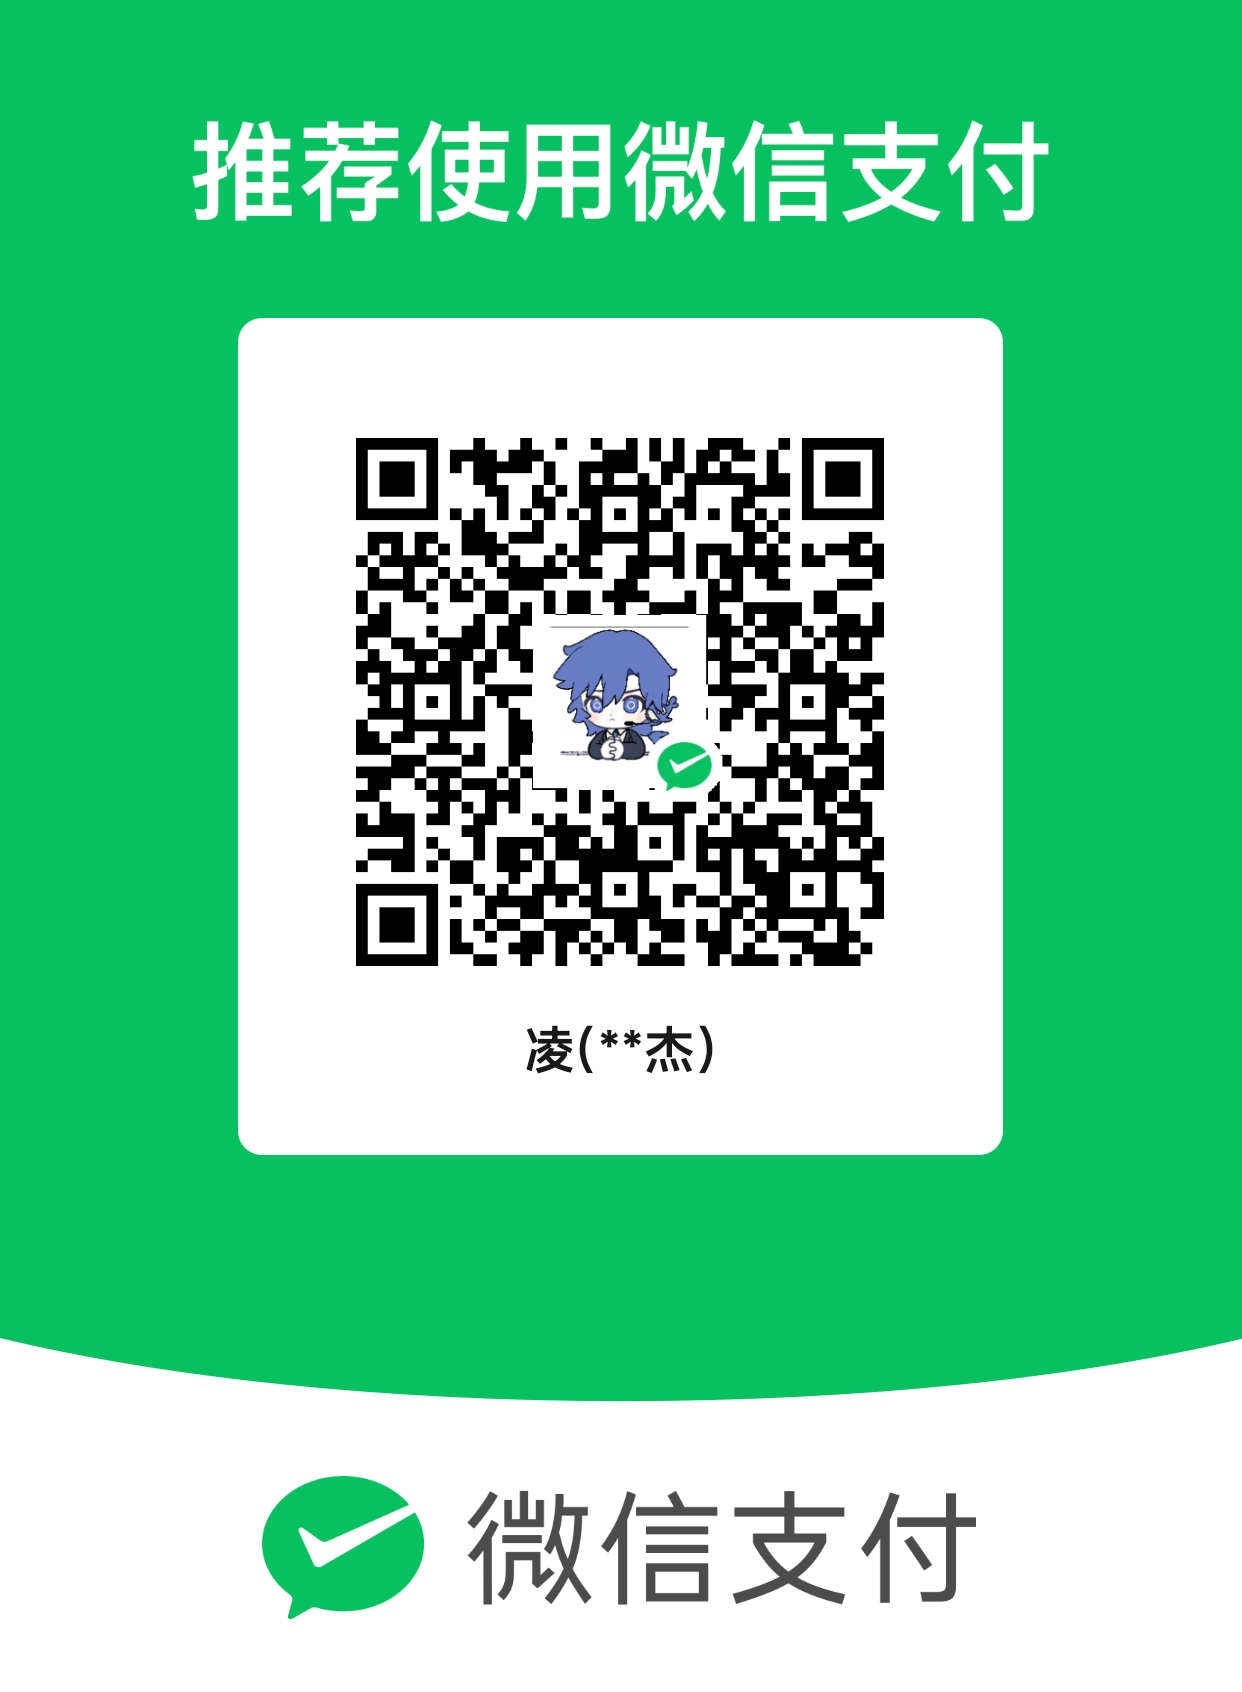
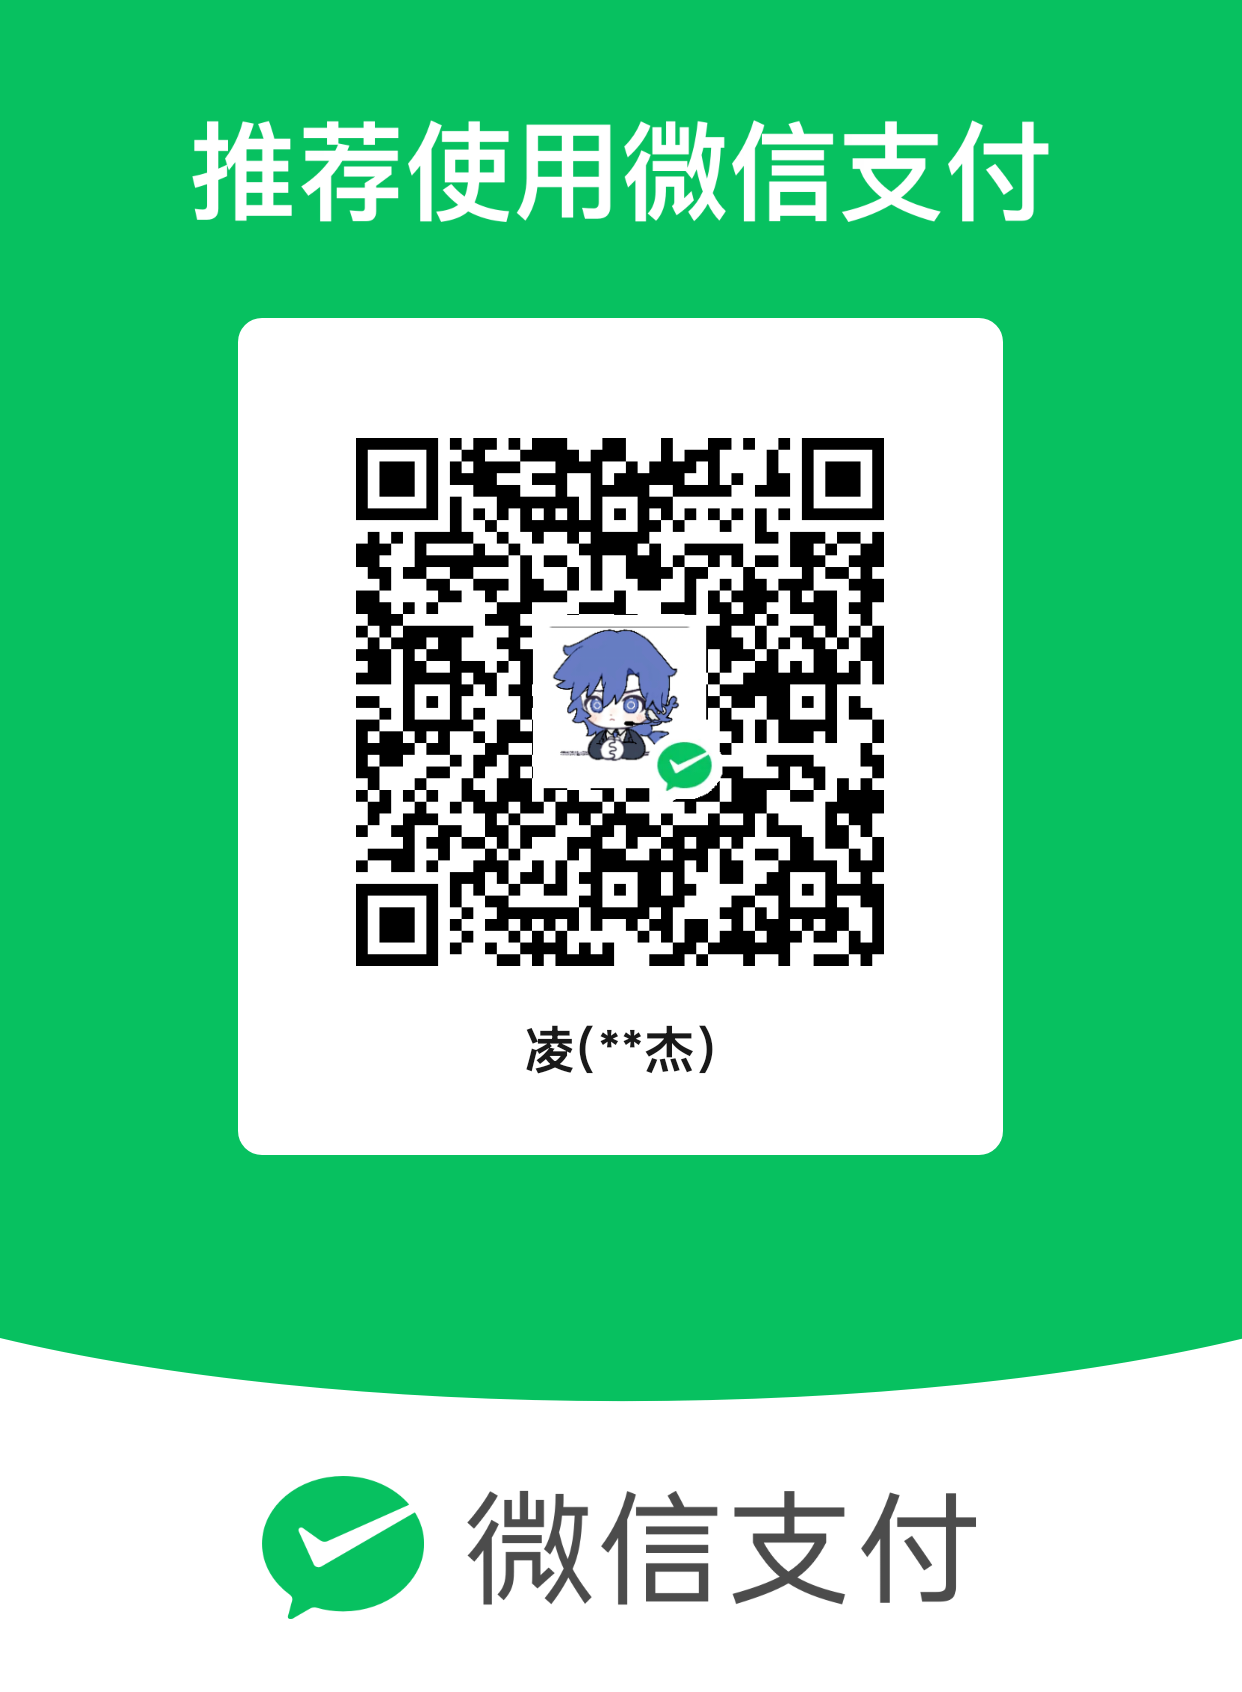
fix(engine): 修复四个用户反馈问题
1. 章节同时有视频和文档时误判为文档，视频被跳过
   根因：waitForVideo 用 s.d > 0 判定有无视频，而 d 是 video.duration，
   元数据加载完成前为 0。混合章节页面较重、加载慢，2秒等待不够，
   于是误判为「无视频」而走文档分支。
   修复：先用 getBoundingClientRect 过滤出「可见且有尺寸」的<video>
   （排除页脚装饰与预加载），再最多等 8s 等元数据就绪；
   duration 未到但播放头已推进也判定为视频。
   同时用播放头做兜底，避免慢网下误判。

2. 右侧学习通界面显示不完全
   根因：panel = Math.max(420, w * 0.46) 优先保障左侧面板，
   窗口 1440px 时右侧只剩 778px，低于学习通页面可用宽度。
   修复：改为先按 54% 给右侧，并保证不低于 820px；
   左侧面板上限 620px，宽屏下空间给右侧。
   默认窗口 1440x900，最小 1240x700（= 左 420 + 右 820）。

3. 设置页清空登录数据后仍显示老账号
   根因：credentials:clear 只删了凭据文件，内嵌浏览器的会话 Cookie
   仍在，超星会直接沿用旧身份。这与 1.5.1 修的换账号是同一处
   遗漏——当时只给 credentials:set 补了清理，漏了 clear。
   修复：clear 时同步调用 session.clearAuthCookies()。

4. 收款码失效
   替换为新的微信收款码（桌面最新那张），尺寸一致 1242x1692。

另附：
- tools/make-voice-bg.py：生成口播背景图（去白底+居中构图），
  参数化设计，后续换素材只改参数。默认用边缘泛洪算法，
  只抠与四边连通的白色，图内部的蕾丝与高光不受影响。
- promo/assets/：素材与去底结果
- .gitignore 补充 __pycache__

验证：typecheck 通过；test-timeout / test-account-switch /
test-channel / test-fallback 四项回归全过；构建后确认新收款码
已进产物（MD5 一致）。

Changed region(s): [[0.2754, 0.2459, 0.7343, 0.5839]]

diff --git a/src/main/engine/video.ts b/src/main/engine/video.ts
@@ -4,6 +4,9 @@ import type { EngineHooks } from './hooks';
 
 export type VideoResult = 'completed' | 'no_video' | 'stuck' | 'unexpected';
 
+/** 等待视频元数据（duration）就绪的上限 */
+const VIDEO_META_TIMEOUT_MS = 8000;
+
 function rethrowIfStopped(h: EngineHooks, e: unknown) {
   if (h.ctl.isStopped) throw e;
 }
@@ -40,34 +43,94 @@ export async function waitForVideo(page: Page, h: EngineHooks): Promise<boolean>
   const want = Math.min(2, Math.max(1, h.speed() || 1));
   await setVideoRate(page, want);
   await installPauseSpy(page);
+
+  // 混合章节（同时有视频与文档）页面较重，video 元素常先出现、
+  // 元数据（duration）后加载。旧逻辑只看一次 s.d>0，
+  // 元数据没到就判定「无视频」→ 走文档分支 → 视频被跳过。
+  // 因此先确认 video 元素存在，再等 duration 就绪。
+  const hasElement = await hasVideoElement(page);
+  if (!hasElement) return false;
+
+  const deadline = Date.now() + VIDEO_META_TIMEOUT_MS;
+  let last: Awaited<ReturnType<typeof probeVideo>> = null;
+
+  while (!h.ctl.isStopped) {
+    last = await probeVideo(page, h);
+    if (last && last.d > 0) {
+      const actual = last.rate || 1;
+      if (last.paused) {
+        const woke = await wakeUp(page, page.frames()[0]);
+        if (woke) last = woke;
+      }
+      const eta = want > 1 ? `，约 ${Math.round(last.d / actual / 60)} 分钟看完` : '';
+      if (want > 1 && actual < want - 0.01) {
+        h.log('warn', `⚠ 平台把倍速限制在 ${actual}x（目标 ${want}x）`);
+      } else {
+        h.log('ok', `✓ 视频: ${Math.round(last.d)}s（${actual}x${eta}）`);
+      }
+      return true;
+    }
+    // duration 还没出来，但播放头已经在动，说明确实是视频，只是元数据慢
+    if (last && last.ct > 0) {
+      h.log('ok', `✓ 视频: 正在播放（${last.ct.toFixed(1)}s，${last.rate || 1}x）`);
+      return true;
+    }
+    if (Date.now() > deadline) break;
+    await h.ctl.sleep(800);
+  }
+
+  h.log('warn', '    ⚠ 检测到 video 元素但始终未就绪，按文档处理');
+  return false;
+}
+
+/** 任一 frame 里是否存在「可见且有尺寸」的 <video> */
+async function hasVideoElement(page: Page): Promise<boolean> {
   for (const frame of page.frames()) {
     try {
-      const v = await frame.$('video');
-      if (!v) continue;
-      let s = await forcePlay(frame);
-      if (!s) continue;
-      if (s.paused) s = (await wakeUp(page, frame)) || s;
-      await h.ctl.sleep(2000);
-      s = (await forcePlay(frame)) || s;
-      if ((s.paused || s.ct < 2) && !h.ctl.isStopped) {
-        const d = await h.diag('start');
-        if (d) h.log('info', `[diag] ${d}`);
-      }
-      if (s.d > 0) {
-        const actual = s.rate || 1;
-        const eta = want > 1 ? `，约 ${Math.round(s.d / actual / 60)} 分钟看完` : '';
-        if (want > 1 && actual < want - 0.01) {
-          h.log('warn', `⚠ 平台把倍速限制在 ${actual}x（目标 ${want}x）`);
-        } else {
-          h.log('ok', `✓ 视频: ${Math.round(s.d)}s（${actual}x${eta}）`);
+      const ok = await frame.evaluate(() => {
+        for (const v of Array.from(document.querySelectorAll('video'))) {
+          const r = (v as HTMLVideoElement).getBoundingClientRect();
+          // 隐藏的、零尺寸的 <video> 常见于页脚装饰/预加载，不算正片
+          if (r.width >= 100 && r.height >= 60) return true;
         }
-        return true;
+        return false;
+      });
+      if (ok) return true;
+    } catch {
+      /* frame 可能正在导航，跳过 */
+    }
+  }
+  return false;
+}
+
+/** 取第一个可见视频的播放状态 */
+async function probeVideo(page: Page, h: EngineHooks) {
+  for (const frame of page.frames()) {
+    try {
+      const s = await frame.evaluate(() => {
+        for (const el of Array.from(document.querySelectorAll('video'))) {
+          const v = el as HTMLVideoElement;
+          const r = v.getBoundingClientRect();
+          if (r.width < 100 || r.height < 60) continue;
+          return {
+            ct: v.currentTime,
+            d: v.duration || 0,
+            paused: v.paused,
+            ended: v.ended,
+            rate: v.playbackRate,
+          };
+        }
+        return null;
+      });
+      if (s) {
+        // 找到可见视频就驱动它播放并应用倍速
+        return await forcePlay(frame);
       }
     } catch (e) {
       rethrowIfStopped(h, e);
     }
   }
-  return false;
+  return null;
 }
 
 /** 轮询直到视频结束 / 卡住 / 异常（3s 一次，45s 无进度判定卡住） */

diff --git a/src/main/index.ts b/src/main/index.ts
@@ -22,10 +22,24 @@ let win: BrowserWindow | null = null;
 let session: Session | null = null;
 let store: Store | null = null;
 
+/** 学习通页面可用宽度下限：低于此值播放器与目录会挤在一起显示不全 */
+const MIN_VIEW_WIDTH = 820;
+/** 左侧面板宽度上限，避免宽屏下日志/设置区空得太多 */
+const MAX_PANEL_WIDTH = 620;
+
 function layout() {
   if (!win || !session) return;
   const [w, h] = win.getContentSize();
-  const panel = Math.max(420, Math.floor(w * 0.46));
+  // 先按比例给右侧，再确保它不低于 MIN_VIEW_WIDTH。
+  // 旧算法用 Math.max(420, w*0.46) 优先保障左侧面板，
+  // 窗口收到最小宽度时右侧只剩约 560px，学习通页面必然显示不全。
+  let view = Math.floor(w * 0.54);
+  if (view < MIN_VIEW_WIDTH) view = Math.min(MIN_VIEW_WIDTH, w);
+  let panel = w - view;
+  if (panel > MAX_PANEL_WIDTH) {
+    panel = MAX_PANEL_WIDTH;
+    view = w - panel;
+  }
   session.setBounds({ x: panel, y: 0, width: Math.max(0, w - panel), height: h });
 }
 
@@ -33,10 +47,11 @@ async function createWindow() {
   store = new Store();
 
   win = new BrowserWindow({
-    width: 1360,
-    height: 880,
-    minWidth: 1040,
-    minHeight: 640,
+    width: 1440,
+    height: 900,
+    // 最小宽度 = 左侧面板下限 420 + 右侧学习通下限 820
+    minWidth: 1240,
+    minHeight: 700,
     backgroundColor: '#0b1220',
     autoHideMenuBar: true,
     show: false,

diff --git a/src/main/ipc.ts b/src/main/ipc.ts
@@ -128,8 +128,15 @@ export function registerIpc(store: Store, session: Session, getWindow: () => Bro
     }
     return true;
   });
-  ipcMain.handle('credentials:clear', () => {
+  ipcMain.handle('credentials:clear', async () => {
     store.clearCredentials();
+    // 关键：只删凭据文件不够。内嵌浏览器里旧账号的会话 Cookie 仍在，
+    // 下次登录时超星会直接沿用旧身份——用户看到的就是「清空了却还是老账号」。
+    try {
+      await session.clearAuthCookies();
+    } catch (e) {
+      console.warn('[ipc] 清空凭据时清除 Cookie 失败:', e);
+    }
     return true;
   });
 

diff --git a/tools/make-voice-bg.py b/tools/make-voice-bg.py
@@ -1,0 +1,176 @@
+#!/usr/bin/env python3
+"""
+生成口播背景图：纯色底 + 居中小图（自动去白底）。
+
+以后换素材只要改参数，不用改代码：
+
+    python tools/make-voice-bg.py --image "C:\\path\\to\\new.png"
+    python tools/make-voice-bg.py --image x.png --bg "#0d1117" --scale 45
+    python tools/make-voice-bg.py --image x.png --mode flood     # 边缘泛洪（默认）
+    python tools/make-voice-bg.py --image x.png --keep-white      # 不去白底
+
+去白底两种算法：
+  flood  —— 从四边向内扩散，遇到接近白色就抠掉。
+           只处理「与边缘连通」的白色，因此图内部的白色
+           （蕾丝、眼神光、领结）会完整保留。
+  luma   —— 按亮度一刀切。简单但会误伤图内浅色区域。
+"""
+import argparse
+import sys
+from collections import deque
+from pathlib import Path
+
+from PIL import Image, ImageFilter
+
+ROOT = Path(__file__).resolve().parent.parent
+ASSETS = ROOT / "promo" / "assets"
+
+
+def _is_bg_white(r, g, b, tol):
+    """像素是否算「背景白」：够亮，且三个通道接近（无彩色）"""
+    mn, mx = min(r, g, b), max(r, g, b)
+    return mn >= 255 - tol and (mx - mn) <= 12
+
+
+def remove_white_flood(img: Image.Image, tol: int, feather: float) -> Image.Image:
+    """边缘泛洪去白底：只抠与四边连通的白色"""
+    img = img.convert("RGBA")
+    w, h = img.size
+    px = img.load()
+
+    # alpha=0 表示已判定为背景
+    seen = bytearray(w * h)
+    q = deque()
+
+    def push(x, y):
+        i = y * w + x
+        if not seen[i]:
+            seen[i] = 1
+            q.append((x, y))
+
+    for x in range(w):
+        push(x, 0)
+        push(x, h - 1)
+    for y in range(h):
+        push(0, y)
+        push(w - 1, y)
+
+    removed = 0
+    while q:
+        x, y = q.popleft()
+        r, g, b, _ = px[x, y]
+        if not _is_bg_white(r, g, b, tol):
+            continue  # 撞到非白色边界，停
+        i = y * w + x
+        if px[x, y][3] != 0:
+            removed += 1
+        px[x, y] = (r, g, b, 0)
+        if x > 0:     push(x - 1, y)
+        if x < w - 1: push(x + 1, y)
+        if y > 0:     push(x, y - 1)
+        if y < h - 1: push(x, y + 1)
+
+    # 靠近抠除区的实心像素做羽化，消除锯齿白边
+    if feather > 0 and removed:
+        alpha = img.getchannel("A")
+        alpha = alpha.filter(ImageFilter.GaussianBlur(feather))
+        img.putalpha(alpha)
+    return img
+
+
+def remove_white_luma(img: Image.Image, threshold: int, feather: float) -> Image.Image:
+    """按亮度一刀切（会误伤图内浅色区域）"""
+    img = img.convert("RGBA")
+    w, h = img.size
+    px = img.load()
+    for y in range(h):
+        for x in range(w):
+            r, g, b, _ = px[x, y]
+            d = ((255 - r) ** 2 + (255 - g) ** 2 + (255 - b) ** 2) ** 0.5
+            if d <= threshold:
+                px[x, y] = (r, g, b, 0)
+            elif d < threshold + 60:
+                px[x, y] = (r, g, b, int((d - threshold) / 60 * 255))
+    if feather > 0:
+        img.putalpha(img.getchannel("A").filter(ImageFilter.GaussianBlur(feather)))
+    return img
+
+
+def hex_to_rgb(s):
+    s = s.lstrip("#")
+    return tuple(int(s[i:i + 2], 16) for i in (0, 2, 4))
+
+
+def trim_transparent(img: Image.Image) -> Image.Image:
+    """裁掉四周全透明的区域，让缩放基于实际内容"""
+    bbox = img.getchannel("A").getbbox()
+    return img.crop(bbox) if bbox else img
+
+
+def build(args) -> None:
+    src = Path(args.image) if args.image else None
+    if src is None:
+        ASSETS.mkdir(parents=True, exist_ok=True)
+        cands = sorted(p for p in ASSETS.iterdir()
+                       if p.suffix.lower() in (".png", ".jpg", ".jpeg", ".webp")
+                       and "donate" not in p.name)
+        if not cands:
+            sys.exit(f"{ASSETS} 下没有图片，或用 --image 指定")
+        src = cands[0]
+    if not src.exists():
+        sys.exit(f"找不到素材: {src}")
+
+    img = Image.open(src)
+    if not args.keep_white:
+        if args.mode == "flood":
+            img = remove_white_flood(img, args.tol, args.feather)
+        else:
+            img = remove_white_luma(img, args.threshold, args.feather)
+        img = trim_transparent(img)
+
+    # 按内容高度缩放到目标百分比
+    ratio = (args.height * args.scale / 100) / img.height
+    if img.width * ratio > args.width * 0.85:
+        ratio = (args.width * 0.85) / img.width
+    img = img.resize((max(1, int(img.width * ratio)), max(1, int(img.height * ratio))),
+                     Image.LANCZOS)
+
+    canvas = Image.new("RGB", (args.width, args.height), hex_to_rgb(args.bg))
+    ox = (args.width - img.width) // 2
+    oy = (args.height - img.height) // 2 if args.center_y is None \
+        else int(args.height * args.center_y) - img.height // 2
+    canvas.paste(img, (ox, oy), img)
+
+    out = Path(args.out) if args.out else ROOT / "promo" / "voice-bg.png"
+    out.parent.mkdir(parents=True, exist_ok=True)
+    canvas.save(out, "PNG")
+
+    print(f"已生成: {out}")
+    print(f"  画布   {args.width}x{args.height}  背景 {args.bg}")
+    print(f"  小图   {img.width}x{img.height}  占画面高 {img.height*100//args.height}%")
+    print(f"  位置   x={ox} y={oy}")
+    print(f"  去底   {'否(保留白底)' if args.keep_white else args.mode}")
+
+
+def main():
+    ap = argparse.ArgumentParser(description="生成口播背景图")
+    ap.add_argument("--image", help="素材路径；不给则用 promo/assets/ 下第一张")
+    ap.add_argument("--out", help="输出路径，默认 promo/voice-bg.png")
+    ap.add_argument("--bg", default="#000000", help="背景色，默认纯黑")
+    ap.add_argument("--scale", type=float, default=55, help="小图高度占画面百分比")
+    ap.add_argument("--width", type=int, default=1920)
+    ap.add_argument("--height", type=int, default=1080)
+    ap.add_argument("--center-y", type=float, default=None,
+                    help="垂直中心位置比例 0-1，默认 0.5")
+    ap.add_argument("--mode", choices=["flood", "luma"], default="flood",
+                    help="去白底算法，默认 flood")
+    ap.add_argument("--tol", type=int, default=32, help="flood 模式容差")
+    ap.add_argument("--threshold", type=int, default=28, help="luma 模式阈值")
+    ap.add_argument("--feather", type=float, default=0.8, help="边缘羽化半径")
+    ap.add_argument("--keep-white", action="store_true")
+    a = ap.parse_args()
+    build(a)
+
+
+if __name__ == "__main__":
+    main()
